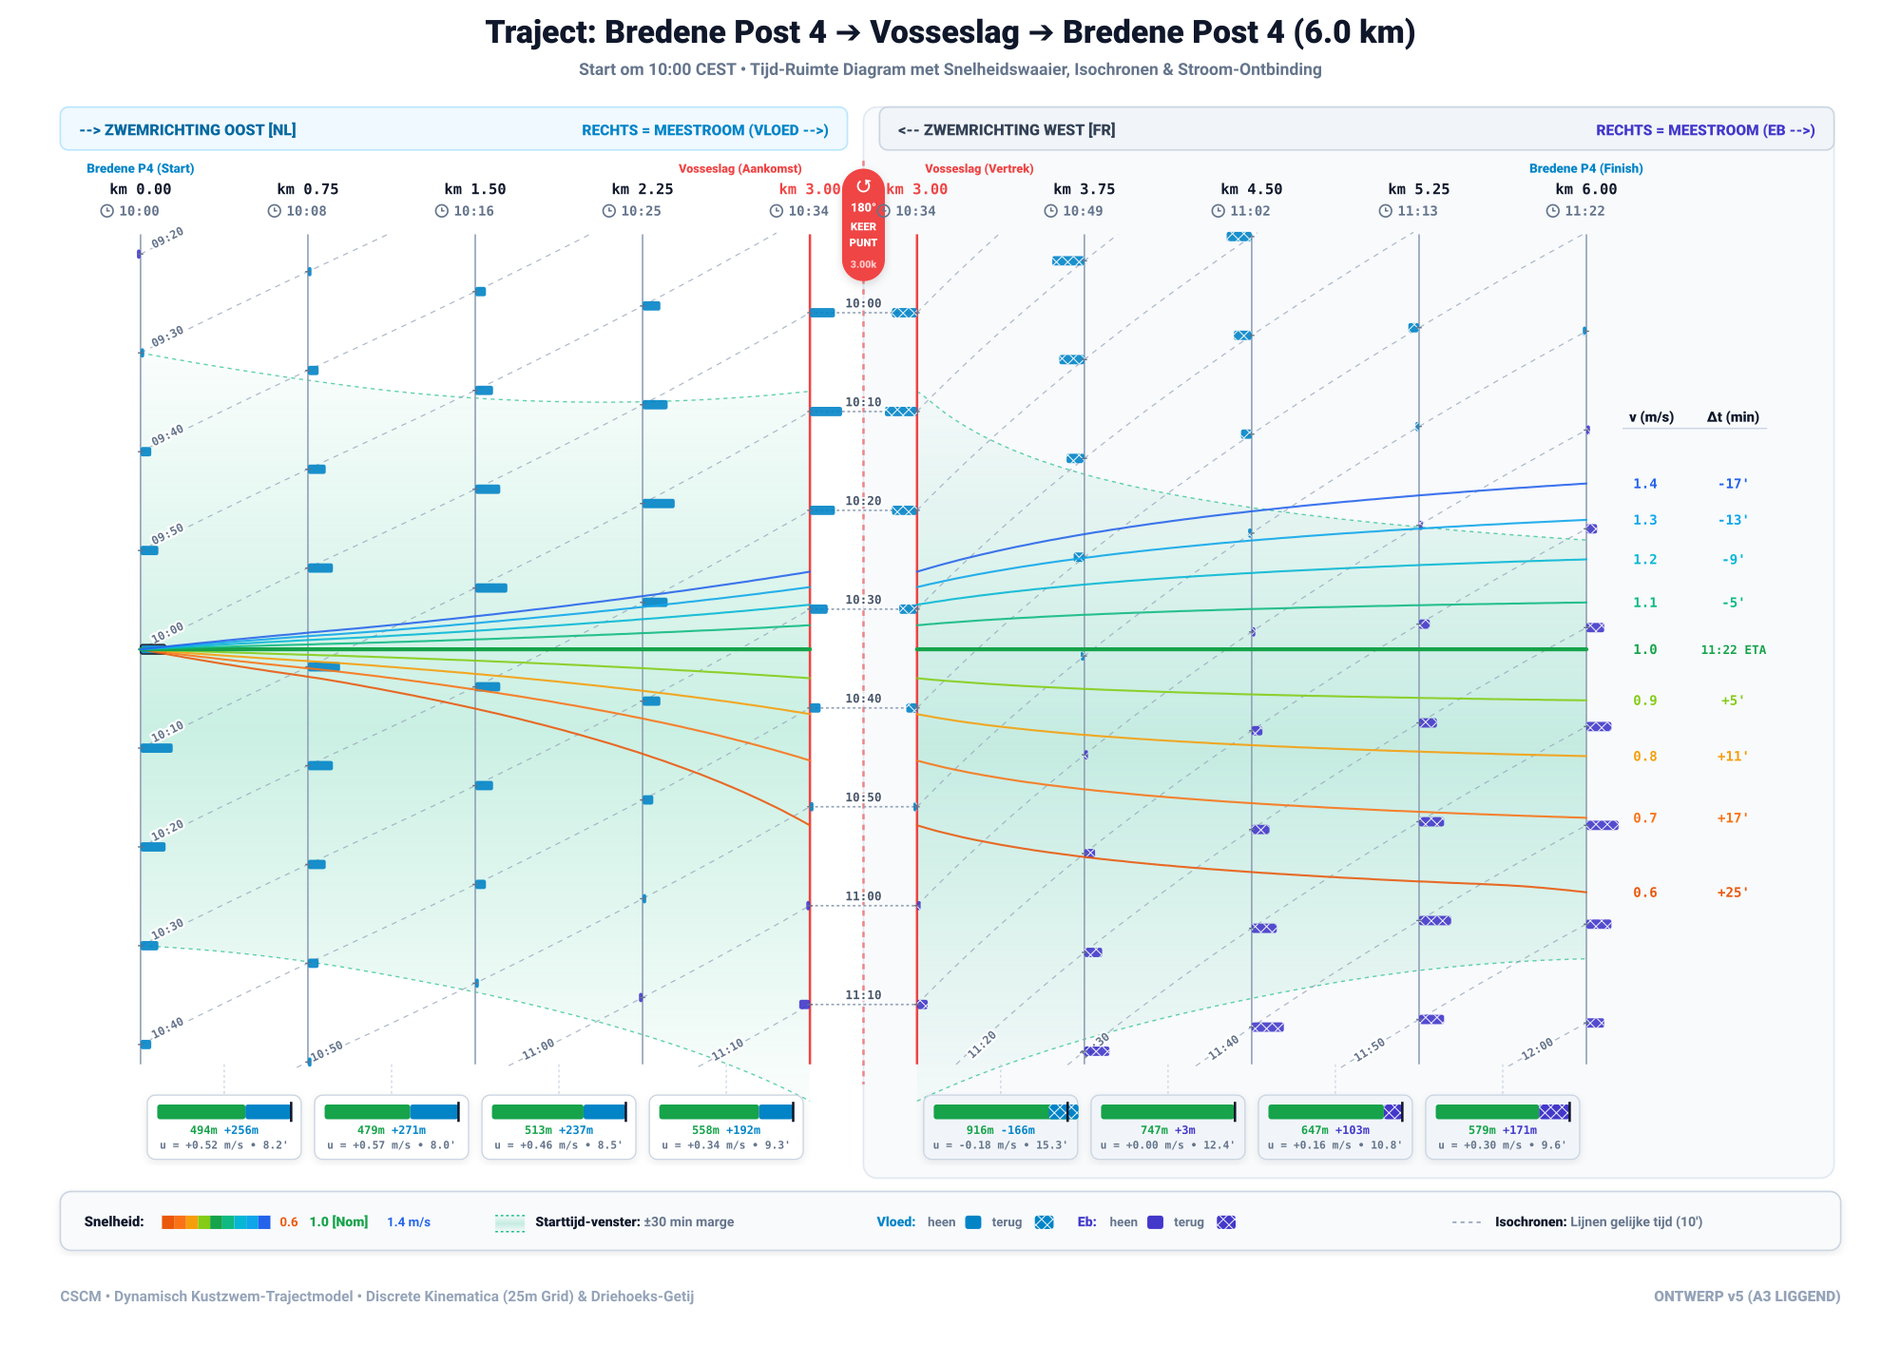
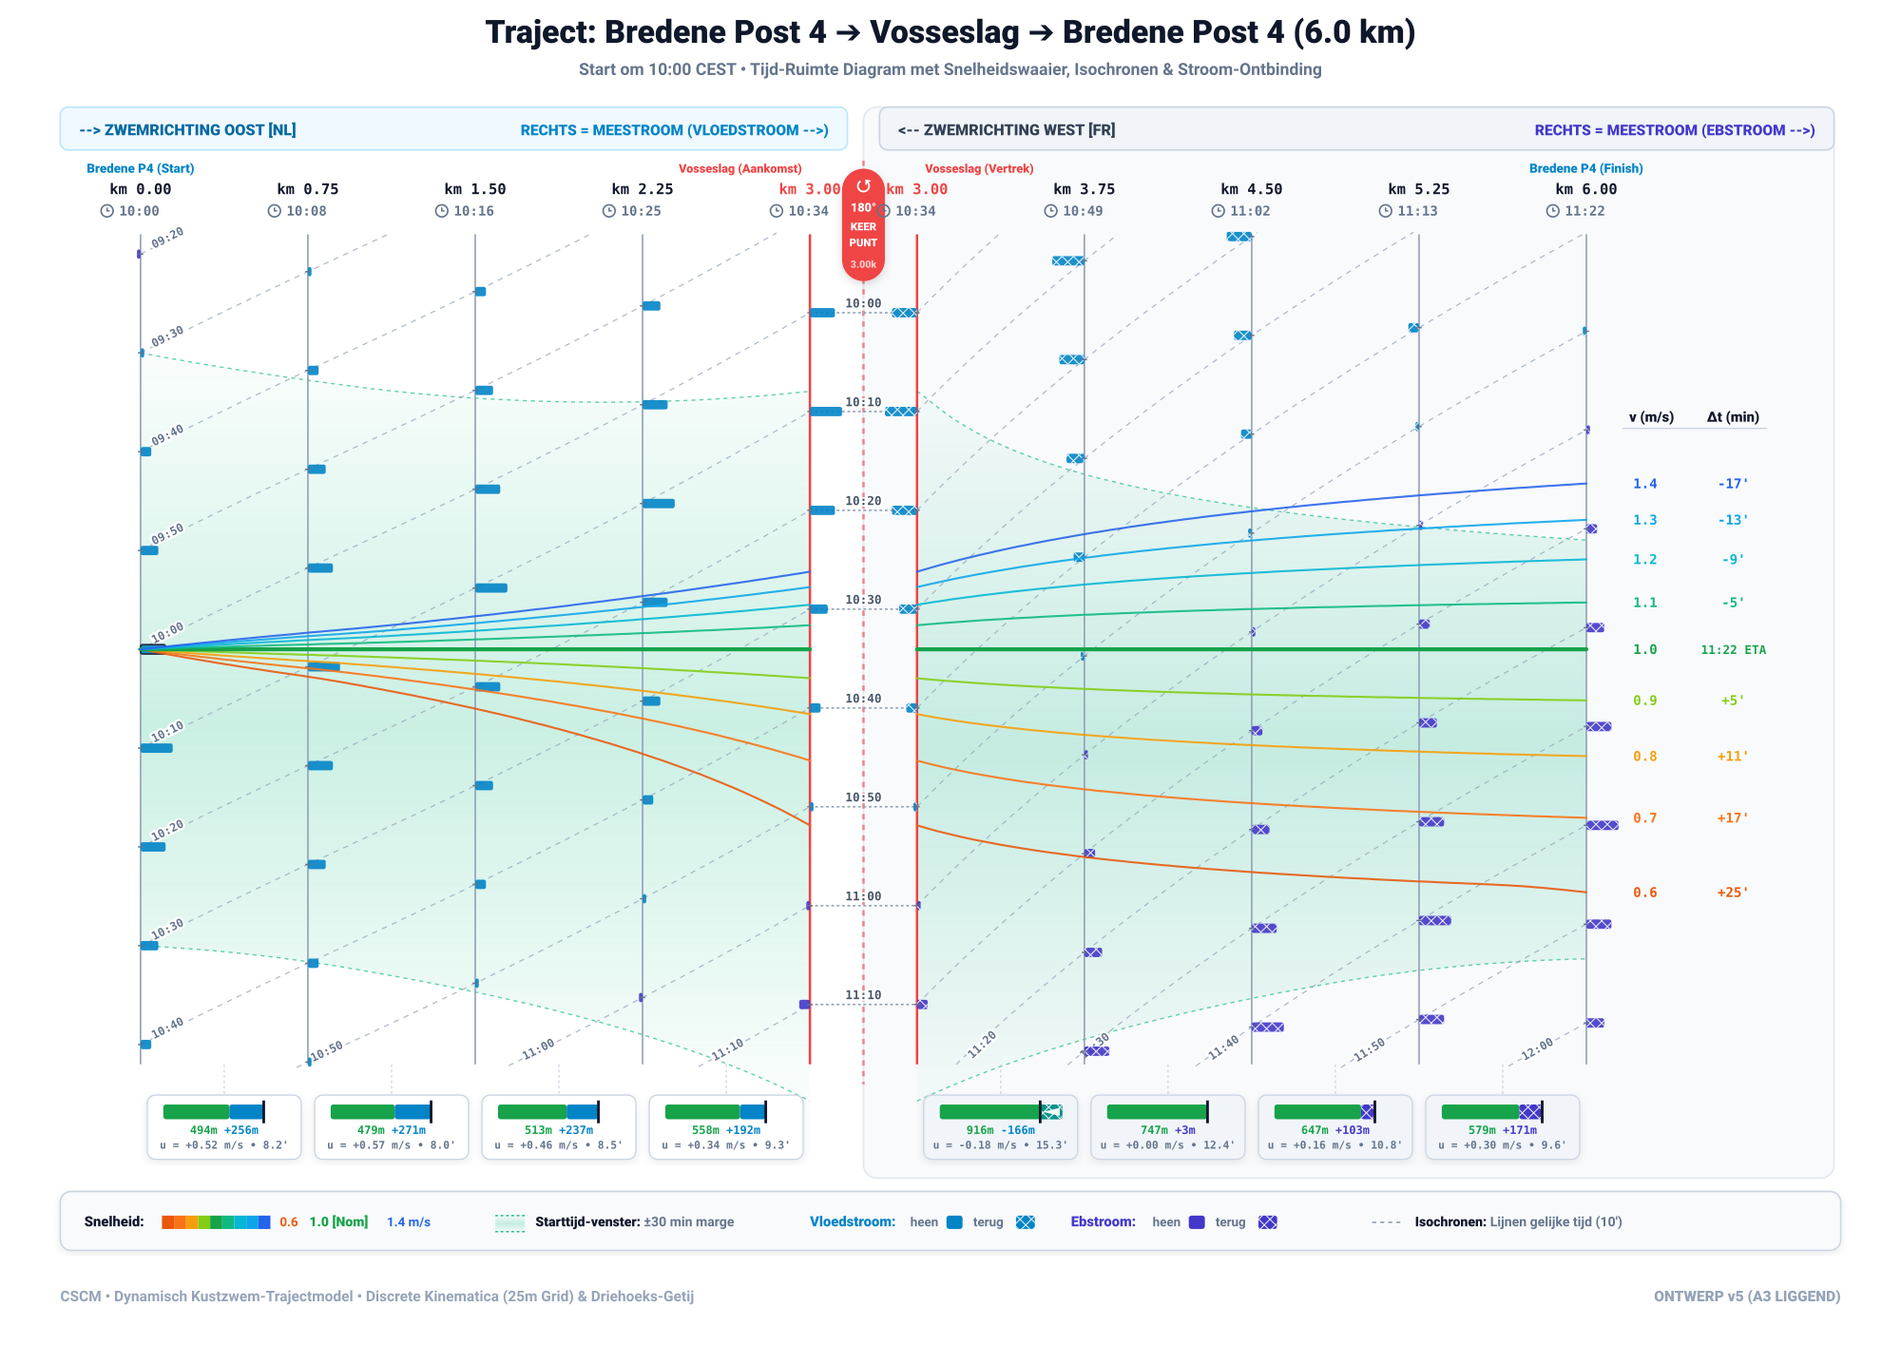
fix(graphics): calibrate headwind card vector geometry and use precise tidal current terminology

diff --git a/docs/experiments/graphics/kust-zwem-profiel/hist/generate_v5.py b/docs/experiments/graphics/kust-zwem-profiel/hist/generate_v5.py
@@ -436,14 +436,14 @@ def generate_profile():
     svg.append(f'  <g id="banner_out" transform="translate(45, 80)">')
     svg.append(f'    <rect x="0" y="0" width="{w_out}" height="32" rx="6" fill="#f0f9ff" stroke="#bae6fd" stroke-width="1.2"/>')
     svg.append('    <text x="14" y="21" font-size="11.5" font-weight="800" fill="#0369a1">--&gt; ZWEMRICHTING OOST [NL]</text>')
-    svg.append(f'    <text x="{w_out - 14}" y="21" font-size="11" font-weight="800" fill="#0284c7" text-anchor="end">RECHTS = MEESTROOM (VLOED --&gt;)</text>')
+    svg.append(f'    <text x="{w_out - 14}" y="21" font-size="11" font-weight="800" fill="#0284c7" text-anchor="end">RECHTS = MEESTROOM (VLOEDSTROOM --&gt;)</text>')
     svg.append('  </g>')
 
     w_ret = 1370 - (x_mid_turn + 12)
     svg.append(f'  <g id="banner_ret" transform="translate({x_mid_turn + 12}, 80)">')
     svg.append(f'    <rect x="0" y="0" width="{w_ret}" height="32" rx="6" fill="#f1f5f9" stroke="#cbd5e1" stroke-width="1.2"/>')
     svg.append('    <text x="14" y="21" font-size="11.5" font-weight="800" fill="#334155">&lt;-- ZWEMRICHTING WEST [FR]</text>')
-    svg.append(f'    <text x="{w_ret - 14}" y="21" font-size="11" font-weight="800" fill="#4338ca" text-anchor="end">RECHTS = MEESTROOM (EB --&gt;)</text>')
+    svg.append(f'    <text x="{w_ret - 14}" y="21" font-size="11" font-weight="800" fill="#4338ca" text-anchor="end">RECHTS = MEESTROOM (EBSTROOM --&gt;)</text>')
     svg.append('  </g>')
 
     # 4. Turnaround Corridor Milestone ("Niemandsland" between x_coords[4] and x_coords[5])
@@ -631,8 +631,8 @@ def generate_profile():
     y_ribbon = 818.0
     w_box = 115.0
     h_box = 48.0
-    w_track = 100.0
-    scale_bar = w_track / 750.0
+    w_track = 75.0
+    scale_bar = w_track / 750.0  # 0.10 px per meter
 
     for k, leg_info in enumerate(legs_ref):
         if k < 4:
@@ -661,39 +661,43 @@ def generate_profile():
         dt_min = leg_info["dt_min"]
         is_flood = leg_info["is_flood"]
 
-        # Track base
-        x_trk = (w_box - w_track) / 2.0
+        # Track geometry (x_tick is always at exact 750m target distance)
+        x_trk = 12.0
         y_trk = 7.0
         h_trk = 11.0
-        svg.append(f'      <rect x="{x_trk:.1f}" y="{y_trk}" width="{w_track}" height="{h_trk}" rx="2" fill="#e2e8f0"/>')
+        x_tick = x_trk + w_track  # 12.0 + 75.0 = 87.0 px
 
         # Current color: Flood is BLUE (#0284c7), Ebb is PURPLE (#4338ca)
         cur_col = "#0284c7" if is_flood else "#4338ca"
 
         if d_u >= 0:
-            # Tailwind (Meestroom): Swimmer covers Dw < 750m, current bridges to 750m
+            # Tailwind (Meestroom): Swimmer covers Dw < 750m, current bridges to 750m tick
             w_w = d_w * scale_bar
             w_u = d_u * scale_bar
+            svg.append(f'      <rect x="{x_trk:.1f}" y="{y_trk}" width="{w_track}" height="{h_trk}" rx="2" fill="#e2e8f0"/>')
             svg.append(f'      <rect x="{x_trk:.1f}" y="{y_trk}" width="{w_w:.1f}" height="{h_trk}" rx="2" fill="#16a34a"/>')
             svg.append(f'      <rect x="{x_trk + w_w:.1f}" y="{y_trk}" width="{w_u:.1f}" height="{h_trk}" rx="2" fill="{cur_col}"/>')
             if k >= 4:
                 svg.append(f'      <rect x="{x_trk + w_w:.1f}" y="{y_trk}" width="{w_u:.1f}" height="{h_trk}" rx="2" fill="url(#whiteCrossHatch)"/>')
             cur_str = f"+{int(round(d_u))}m"
         else:
-            # Headwind (Tegenstroom, Leg 5): Swimmer covers Dw > 750m, opposing current subtracts back to 750m tick!
-            w_w = min(108.0, d_w * scale_bar)
-            w_u = max(6.0, abs(d_u) * scale_bar)
+            # Headwind (Tegenstroom, Leg 5): Swimmer covers Dw > 750m (916m), current pushes back by 166m!
+            w_w = d_w * scale_bar         # 91.6 px (916m through water)
+            w_u = abs(d_u) * scale_bar    # 16.6 px (166m current push)
+            # Track base covers full swimmer reach (916m)
+            svg.append(f'      <rect x="{x_trk:.1f}" y="{y_trk}" width="{w_w:.1f}" height="{h_trk}" rx="2" fill="#e2e8f0"/>')
+            # Full green bar representing 916m
             svg.append(f'      <rect x="{x_trk:.1f}" y="{y_trk}" width="{w_w:.1f}" height="{h_trk}" rx="2" fill="#16a34a"/>')
-            # Opposing current bar pushing back from w_w to 100px
-            x_opp = max(x_trk, x_trk + w_w - w_u)
-            svg.append(f'      <rect x="{x_opp:.1f}" y="{y_trk}" width="{w_u:.1f}" height="{h_trk}" rx="2" fill="{cur_col}"/>')
+            # Opposing current bar: 166m wide, starting at 750m tick and extending to 916m
+            svg.append(f'      <rect x="{x_tick:.1f}" y="{y_trk}" width="{w_u:.1f}" height="{h_trk}" rx="2" fill="{cur_col}" fill-opacity="0.55"/>')
             if k >= 4:
-                svg.append(f'      <rect x="{x_opp:.1f}" y="{y_trk}" width="{w_u:.1f}" height="{h_trk}" rx="2" fill="url(#whiteCrossHatch)"/>')
+                svg.append(f'      <rect x="{x_tick:.1f}" y="{y_trk}" width="{w_u:.1f}" height="{h_trk}" rx="2" fill="url(#whiteCrossHatch)"/>')
+            # Leftward white arrow showing opposing current pushing back to 750m
+            svg.append(f'      <polygon points="{x_tick + w_u - 2:.1f},{y_trk + 2.5} {x_tick + 2:.1f},{y_trk + 5.5} {x_tick + w_u - 2:.1f},{y_trk + 8.5}" fill="#ffffff" opacity="0.95"/>')
             cur_str = f"{int(round(d_u))}m"
 
-        # Explicit black tick mark at EXACT 750m (target distance)
-        x_tick = x_trk + w_track
-        svg.append(f'      <line x1="{x_tick:.1f}" y1="{y_trk - 2}" x2="{x_tick:.1f}" y2="{y_trk + h_trk + 2}" stroke="#0f172a" stroke-width="1.8"/>')
+        # Explicit black tick mark at EXACT 750m (target distance, inside green bar on headwind leg)
+        svg.append(f'      <line x1="{x_tick:.1f}" y1="{y_trk - 3}" x2="{x_tick:.1f}" y2="{y_trk + h_trk + 3}" stroke="#0f172a" stroke-width="2.0"/>')
 
         # Numerical label row 1: distance breakdown
         svg.append(f'      <text x="{w_box/2:.1f}" y="29" font-family="monospace" font-size="8.5" font-weight="800" text-anchor="middle"><tspan fill="#16a34a">{int(round(d_w))}m</tspan> <tspan fill="{cur_col}">{cur_str}</tspan></text>')
@@ -729,31 +733,32 @@ def generate_profile():
     svg.append('      <text x="30" y="10" font-size="10" font-weight="800" fill="#0f172a">Starttijd-venster: <tspan font-weight="600" fill="#64748b">±30 min marge</tspan></text>')
     svg.append('    </g>')
 
-    # Item 3: Getijdestroming (All 4 physical cases clearly distinguished)
-    svg.append('    <g transform="translate(610, 16)">')
+    # Item 3: Getijdestroming (Vloedstroom & Ebstroom)
+    svg.append('    <g transform="translate(560, 16)">')
     # Vloedstroom
-    svg.append('      <text x="0" y="10" font-size="10" font-weight="900" fill="#0284c7">Vloed:</text>')
-    svg.append('      <text x="38" y="10" font-size="9.5" font-weight="700" fill="#64748b">heen</text>')
-    svg.append('      <rect x="66" y="2" width="12" height="10" rx="2" fill="#0284c7"/>')
-    svg.append('      <text x="86" y="10" font-size="9.5" font-weight="700" fill="#64748b">terug</text>')
-    svg.append('      <rect x="118" y="2" width="14" height="10" rx="2" fill="#0284c7"/>')
-    svg.append('      <rect x="118" y="2" width="14" height="10" rx="2" fill="url(#whiteCrossHatch)"/>')
+    svg.append('      <text x="0" y="10" font-size="10.5" font-weight="900" fill="#0284c7">Vloedstroom:</text>')
+    svg.append('      <text x="75" y="10" font-size="9.5" font-weight="700" fill="#64748b">heen</text>')
+    svg.append('      <rect x="102" y="2" width="12" height="10" rx="2" fill="#0284c7"/>')
+    svg.append('      <text x="122" y="10" font-size="9.5" font-weight="700" fill="#64748b">terug</text>')
+    svg.append('      <rect x="154" y="2" width="14" height="10" rx="2" fill="#0284c7"/>')
+    svg.append('      <rect x="154" y="2" width="14" height="10" rx="2" fill="url(#whiteCrossHatch)"/>')
 
     # Ebstroom
-    svg.append('      <text x="150" y="10" font-size="10" font-weight="900" fill="#4338ca">Eb:</text>')
-    svg.append('      <text x="174" y="10" font-size="9.5" font-weight="700" fill="#64748b">heen</text>')
-    svg.append('      <rect x="202" y="2" width="12" height="10" rx="2" fill="#4338ca"/>')
-    svg.append('      <text x="222" y="10" font-size="9.5" font-weight="700" fill="#64748b">terug</text>')
-    svg.append('      <rect x="254" y="2" width="14" height="10" rx="2" fill="#4338ca"/>')
-    svg.append('      <rect x="254" y="2" width="14" height="10" rx="2" fill="url(#whiteCrossHatch)"/>')
+    svg.append('      <text x="195" y="10" font-size="10.5" font-weight="900" fill="#4338ca">Ebstroom:</text>')
+    svg.append('      <text x="256" y="10" font-size="9.5" font-weight="700" fill="#64748b">heen</text>')
+    svg.append('      <rect x="283" y="2" width="12" height="10" rx="2" fill="#4338ca"/>')
+    svg.append('      <text x="303" y="10" font-size="9.5" font-weight="700" fill="#64748b">terug</text>')
+    svg.append('      <rect x="335" y="2" width="14" height="10" rx="2" fill="#4338ca"/>')
+    svg.append('      <rect x="335" y="2" width="14" height="10" rx="2" fill="url(#whiteCrossHatch)"/>')
     svg.append('    </g>')
 
     # Item 4: Isochronen
-    svg.append('    <g transform="translate(1040, 16)">')
+    svg.append('    <g transform="translate(980, 16)">')
     svg.append('      <line x1="0" y1="7" x2="24" y2="7" stroke="#94a3b8" stroke-width="1.2" stroke-dasharray="3,3"/>')
     svg.append('      <text x="32" y="10" font-size="10" font-weight="800" fill="#0f172a">Isochronen: <tspan font-weight="600" fill="#64748b">Lijnen gelijke tijd (10\')</tspan></text>')
     svg.append('    </g>')
     svg.append('  </g>')
+
 
     # 13. Clean Footer
     svg.append('  <!-- ================= FOOTER ================= -->')

diff --git a/docs/experiments/graphics/kust-zwem-profiel/hist/versions.md b/docs/experiments/graphics/kust-zwem-profiel/hist/versions.md
@@ -14,7 +14,7 @@ This document tracks the evolution of the **Coastal Swim Trajectory Profile** in
 | **v3** | `generate_v3.py`<br>`data_to_plot_v3.yaml`<br>`ontwerp-kustzwem-profiel-v3.svg`<br>`ontwerp-kustzwem-profiel-v3.png` | **Dynamic Kinematics, Turnaround Buffer & Minimal Aesthetic**: <br>• **Variable Hydrodynamic Kinematics**: $v_{\text{ground}} = v_{\text{water}} + u(t, s)$ integrated across every 750m leg. Non-linear tidal progression naturally curves isochrones and isotach trajectories.<br>• **Turnaround Buffer Zone ("Niemandsland")**: Turnaround point duplicated into two distinct spines (Vosseslag Arrival vs Vosseslag Departure). Horizontal transition zone with stacked 180° turnaround badge (`↺`). Background shifts from white to grey halfway across the buffer.<br>• **Realistic Tidal Headwind at Turnaround**: Current at Vosseslag is not zero at turnaround; lingering flood requires temporary headwind effort until kentering, accurately illustrated by orange bars pointing left on return departure.<br>• **First-Step Vector Addition Box**: Visual breakdown above leg 0➔1 demonstrating swimmer velocity ($56.8\%$) + current boost ($43.2\%$ "kado") summing exactly to the 750m checkpoint.<br>• **9-Isotach Continuous Fan**: Paces from $0.6\text{ m/s}$ to $1.4\text{ m/s}$ in $0.1\text{ m/s}$ steps with smooth cubic curves and sharp line intersections.<br>• **Alternative Departure Baselines**: Faint dotted green trajectories for departures at -30', -15', +15', +30' from 10:00.<br>• **Minimalist Layout ("Less is More")**: Replaced bulky cards and P4..P1 badges with clean 90° rotated metric chainage ticks (`0.00` to `6.00 km`) and nominal ETA timestamps. Removed personal names from footer. |
 | **v4** | `generate_v4.py`<br>`data_to_plot_v4.yaml`<br>`ontwerp-kustzwem-profiel-v4.svg`<br>`ontwerp-kustzwem-profiel-v4.png` | **Discrete Kinematics (25m Grid), 8 Schalingsbalken & Predictable Triangle Tide Model**: <br>• **Rigorous Numerical Integration on Fine Grid ($\Delta s = 25\text{ m}$)**: Completely eliminated global cubic Bézier spline interpolation across checkpoints. Direct integration of $dt = ds / (v_{\text{water}} + u_{\text{rel}}(t))$ prevents artificial spline oscillations and unnatural trajectory pinching.<br>• **Decoupled Turnaround Corridor**: Inbound leg (0k0 ➔ 3k0) and return leg (3k0 ➔ 6k0) strictly disconnected across the turnaround buffer. Isotachs terminate at Vosseslag Inbound spine and restart at Outbound spine; isochrones connect with straight horizontal bridges bearing clock timestamps.<br>• **8 Alternating Schalingsbalken (Vector Breakdown Cards)**: Explicit vector addition rendered for every single 750m leg. Alternates above (odd legs 1, 3, 5, 7) and below (even legs 2, 4, 6, 8) the graph. Shows exact distance covered through water by swimmer vs pushed/pulled by current in meters and $\text{m/s}$. Tegenstroom leg (Leg 5) shows swimmer exceeding 750m with opposing current subtracted.<br>• **Predictable Triangular Tidal Current Model**: Piecewise linear triangle wave ($\Delta u = 0.20\text{ m/s}$ per 15 min, range $\pm 0.60\text{ m/s}$, slack at 10:45 CEST) providing an exact mental and manual verification baseline.<br>• **Coherent Vertical Spines & Isochrones**: Current staven on spines placed at exact isochrone clock times, directly demonstrating the 7-8 min vertical time shift between spines. Unified departure badges on the left spine and complete labels for all isochrones entering the canvas. |
 
-| **v5** | `generate_v5.py`<br>`data_to_plot_v5.yaml`<br>`ontwerp-kustzwem-profiel-v5.svg`<br>`ontwerp-kustzwem-profiel-v5.png` | **DIN A3 Landscape Geometry, Multi-Regime Tide (Headwind on Return), White Cross-Hatching & Envelope Density Gradient**: <br>• **DIN A3/A4 Landscape Geometry ($\sqrt{2} \approx 1.414$) & Canvas Centering**: Canvas at $1420 \times 1004\text{ px}$. Horizontally centered across margins ($x_0 = 105\text{ px}$, $dx = 125\text{ px}$). Vertical plot matrix expanded to $620\text{ px}$ height ($7.38\text{ px/min}$ scale) by lowering ribbon ($y=818$) and legend ($y=890$).<br>• **Multi-Regime Tidal Phase Calibration (Kentering at 10:55 CEST)**: Realistic progression demonstrating all 4 physical hydrodynamic regimes in one swim: Outbound legs 1–4 under strong flood tailwind (`+256m` to `+192m`), Turnaround at 10:34 directly into lingering flood headwind (Leg 5: `u = -0.18 m/s`, `-166m` drag, $916\text{ m}$ effort through water), Kentering at 10:55 on Leg 6 (`u = +0.00 m/s`, exact $750\text{ m}$ swim), and accelerating ebb tailwind home on Legs 7–8 (`+103m`, `+171m`).<br>• **High-Contrast White Nautical Cross-Hatching (`#whiteCrossHatch`)**: Replaced faint single-angle diagonal hatch with crisp, dense bidirectional white cross-hatching (+45° and -45° at 6px pitch). Clearly distinguishes return leg current staves, schaalbalken, and legend indicators on both print and screen.<br>• **Bidirectional Vertical Density Gradient for Starttijd-Venster**: Translucent emerald band (`#10b981`) rendered with vertical density gradient peaking at 22% opacity along the nominal 10:00 trajectory and fading to near-transparent (2%) at the $\pm 30\text{ min}$ boundaries, bounded by dashed green lines without side vertical borders.<br>• **Comprehensive Isochrone Labeling & Finish Table**: Every 10-minute isochrone entering from spine 0 or the bottom margin is labeled with rotated monospace timestamps and white halo (`paint-order="stroke"`). Checkpoint headers feature `km` prefixes and inline clock icons. Finish table highlights the nominal reference swimmer with bold green ETA (`11:22 ETA`).<br>• **Refined Single-Line Legend**: Shows complete 4-state tidal matrix (`Vloed: heen / terug [cross-hatch]`, `Eb: heen / terug [cross-hatch]`) and gradient departure window swatch. |
+| **v5** | `generate_v5.py`<br>`data_to_plot_v5.yaml`<br>`ontwerp-kustzwem-profiel-v5.svg`<br>`ontwerp-kustzwem-profiel-v5.png` | **DIN A3 Landscape Geometry, Multi-Regime Tide (Headwind on Return), White Cross-Hatching & Calibrated Vector Ribbons**: <br>• **DIN A3/A4 Landscape Geometry ($\sqrt{2} \approx 1.414$) & Canvas Centering**: Canvas at $1420 \times 1004\text{ px}$. Horizontally centered across margins ($x_0 = 105\text{ px}$, $dx = 125\text{ px}$). Vertical plot matrix expanded to $620\text{ px}$ height ($7.38\text{ px/min}$ scale) by lowering ribbon ($y=818$) and legend ($y=890$).<br>• **Multi-Regime Tidal Phase Calibration (Kentering at 10:55 CEST)**: Realistic progression demonstrating all 4 physical hydrodynamic regimes in one swim: Outbound legs 1–4 under strong flood tailwind (`+256m` to `+192m`), Turnaround at 10:34 directly into lingering flood headwind (Leg 5: `u = -0.18 m/s`, `-166m` drag, $916\text{ m}$ effort through water), Kentering at 10:55 on Leg 6 (`u = +0.00 m/s`, exact $750\text{ m}$ swim), and accelerating ebb tailwind home on Legs 7–8 (`+103m`, `+171m`).<br>• **Calibrated Headwind Vector Geometry (Card 5)**: Rescaled bottom ribbon cards to $w_{\text{track}} = 75.0\text{ px}$ ($0.10\text{ px/m}$) so the full $916\text{ m}$ swimmer effort ($91.6\text{ px}$) fits without clipping. The black $750\text{ m}$ target tick mark is placed inside the green bar at $87.0\text{ px}$. The $166\text{ m}$ opposing current overlay ($16.6\text{ px}$) extends from the tick to the bar end with translucent flood blue tint, high-contrast white cross-hatching, and a white leftward arrow pointing back to $750\text{ m}$.<br>• **High-Contrast White Nautical Cross-Hatching (`#whiteCrossHatch`)**: Replaced faint single-angle diagonal hatch with crisp, dense bidirectional white cross-hatching (+45° and -45° at 6px pitch). Clearly distinguishes return leg current staves, schaalbalken, and legend indicators on both print and screen.<br>• **Bidirectional Vertical Density Gradient for Starttijd-Venster**: Translucent emerald band (`#10b981`) rendered with vertical density gradient peaking at 22% opacity along the nominal 10:00 trajectory and fading to near-transparent (2%) at the $\pm 30\text{ min}$ boundaries, bounded by dashed green lines without side vertical borders.<br>• **Comprehensive Isochrone Labeling & Finish Table**: Every 10-minute isochrone entering from spine 0 or the bottom margin is labeled with rotated monospace timestamps and white halo (`paint-order="stroke"`). Checkpoint headers feature `km` prefixes and inline clock icons. Finish table highlights the nominal reference swimmer with bold green ETA (`11:22 ETA`).<br>• **Precise Tidal Current Terminology (`Vloedstroom` & `Ebstroom`)**: Perspective banners and the bottom legend strictly distinguish horizontal tidal currents (`Vloedstroom: heen / terug`, `Ebstroom: heen / terug`) from vertical water level changes. |
 
 ---
 
